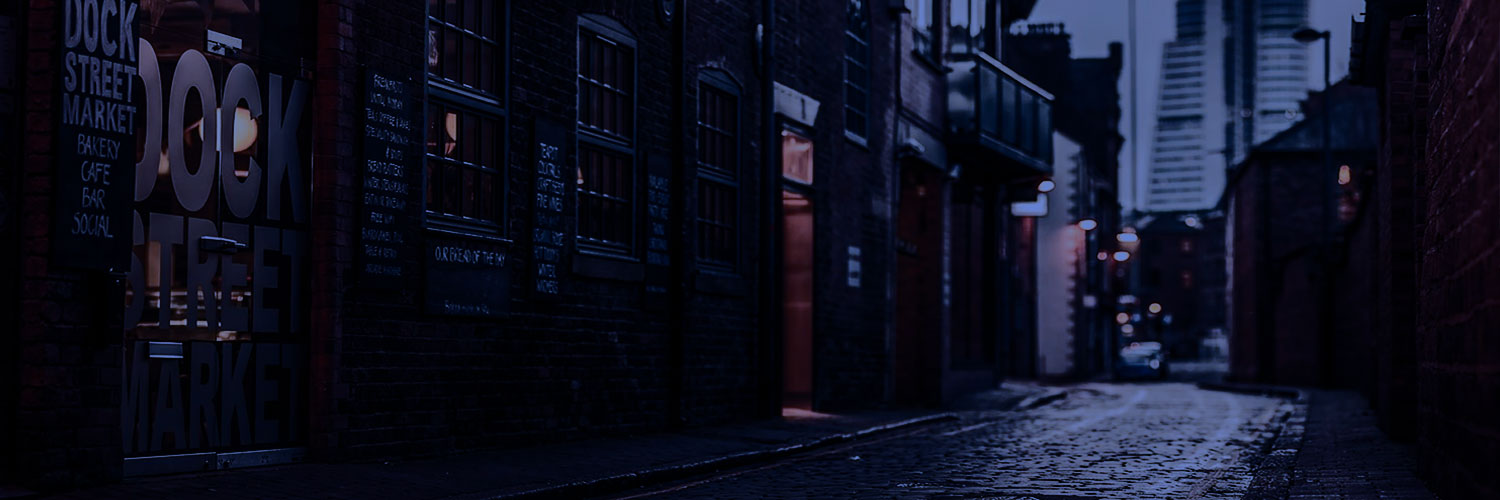
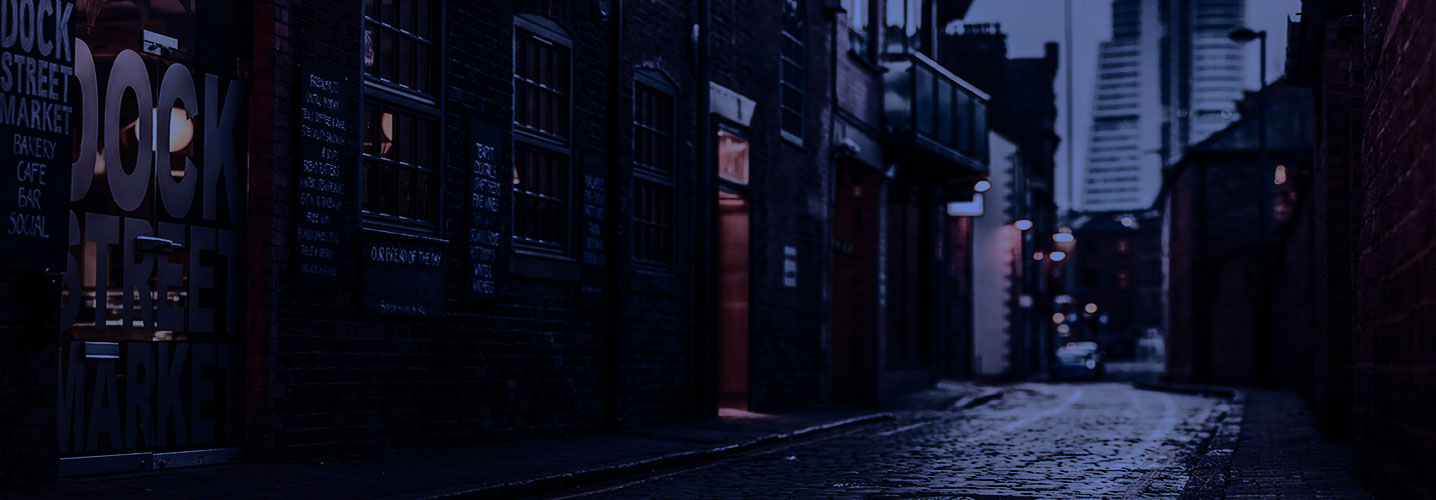
Baseline

diff --git a/index.html b/index.html
@@ -6,7 +6,7 @@
     <head>
         <meta charset="utf-8">
         <meta http-equiv="X-UA-Compatible" content="IE=edge">
-        <title></title>
+        <title>Ryan J. Scarpelli - Personal Website</title>
         <meta name="description" content="">
         <meta name="viewport" content="width=device-width, initial-scale=1">
 
@@ -22,7 +22,21 @@
         <![endif]-->
 
         <!-- Add your site or application content here -->
-        <p>Hello world! This is HTML5 Boilerplate.</p>
+
+        <header>
+            <h1 class="name">Ryan Scarpelli</h1>
+        </header>
+
+        <div class="imagebanner">
+            <img src="img/imagebanner.jpg" alt="cityscape background" />
+        </div>
+
+        <footer>
+        </footer>
+
+
+
+        
 
         <script src="//ajax.googleapis.com/ajax/libs/jquery/1.10.2/jquery.min.js"></script>
         <script>window.jQuery || document.write('<script src="js/vendor/jquery-1.10.2.min.js"><\/script>')</script>

diff --git a/css/main.css b/css/main.css
@@ -97,7 +97,19 @@ textarea {
    Author's custom styles
    ========================================================================== */
 
+body {
+    background-color: black;
+    color: white;
+}
+.name {
 
+}
+.imagebanner img {
+    max-width: 100%;
+    width: 100%;
+    max-height: 75%;
+    height: 75%;
+}
 
 
 
